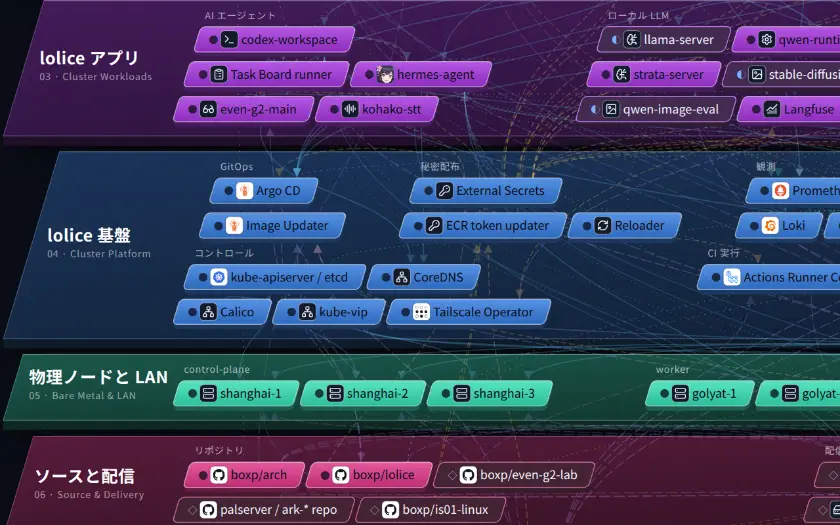
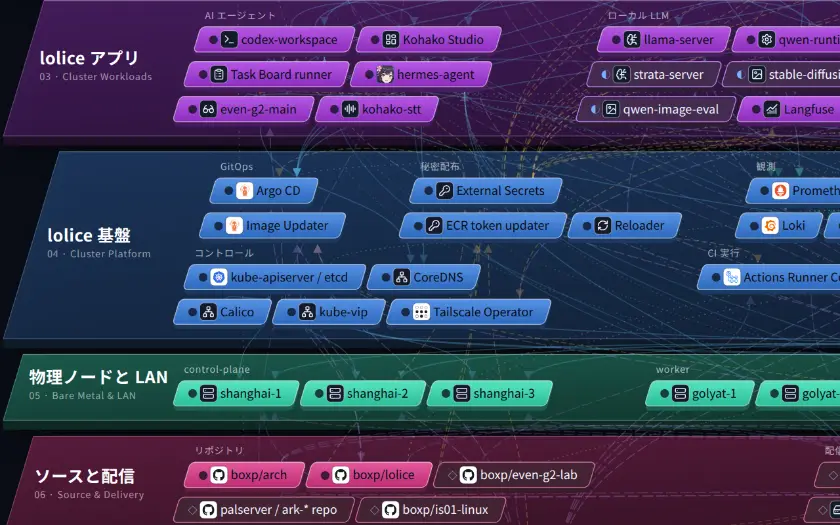
BOXP-456: インフラ図の基準を更新し、公開境界の検査を最新承認へ合わせる (#14532)
- iac-baseline.json を staging (arch 4df5c598 / lolice cf8a764a) から再生成
- lineage のサムネイルを新版に更新
- publish.bb の配備後検査から『本番に全体図の語が無いこと』を外す
  (BOXP-442 で本番に両図カードを掲載済み)
- README の権限境界を BOXP-430/435/442 の承認に合わせる

Changed region(s): [[0.681, 0.0305, 0.8667, 0.1829], [0.4024, 0.0305, 0.619, 0.1219]]

diff --git a/docs/project_docs/BOXP-456/plan.md b/docs/project_docs/BOXP-456/plan.md
@@ -1,0 +1,27 @@
+# BOXP-456: インフラ図の定期更新 (2026-11-06 の差分)
+
+## 差分と判断
+
+| 差分 | 判断 | 根拠 |
+|---|---|---|
+| kohako-studio (Application / Namespace / Deployment / ClusterIP Service / NetworkPolicy / RBAC) | 図へ反映 | public repo boxp/lolice `argoproj/kohako-studio/`、live で Deployment 1/1 |
+| kohako-studio の ExternalSecret `kohako-hermes-api-key` | 独立ノードにせず Hermes 経路の根拠のみ | 値は読まない |
+| `kohako-studio.b0xp.io` (DNS / Tunnel / Access 本人限定) | 図へ反映 | `terraform/cloudflare/b0xp.io/even-g2-lab/` |
+| langfuse-mcp-readonly (Deployment / ClusterIP) | Langfuse に反映 | `argoproj/langfuse/mcp-readonly-proxy.yaml`、live 1/1 |
+| llama-server 停止→稼働 | 状態を修正 | live 1/1 |
+| strata-server 稼働→停止 | 状態を修正 | live 0/0、manifest replicas 0 (GPU 共用) |
+| 全体図 Access application の削除 | 反映済み (BOXP-435) | 基準のみ更新 |
+| `promote-portfolio-production.yml`、`build-kohako-studio-image.yml`、longhorn 設定 | 基準のみ更新 | 図の要素の粒度外 |
+
+## 公開境界の整合 (TD-01)
+
+最新の Owner 承認: lineage 一般公開 (BOXP-430)、全体図一般公開 (BOXP-435 TD-04)、portfolio 本番は両図のカードとサムネイルを掲載 (BOXP-442 TD-01)。
+`publish.bb` の配備後検査「本番に全体図の語が無いこと」は承認前の前提で、現在は必ず失敗する。本番が配信を続けていること (HTTP 200) の確認へ直し、README の権限境界を現承認へ合わせる。
+本番 portfolio の再配備 (サムネイル更新) はこの手順では行わない。
+
+## 手順
+
+1. staging で edn を直し `publish.bb build`
+2. 修正版 `publish.bb deploy` / `promote`
+3. 基準 `iac-baseline.json` と lineage サムネイル、publish.bb / README の修正を PR にして CI・review・merge
+4. `refresh.bb accept --ticket BOXP-456`、`schedule-infra-diagram-refresh.yml` を実行し無差分を確認
